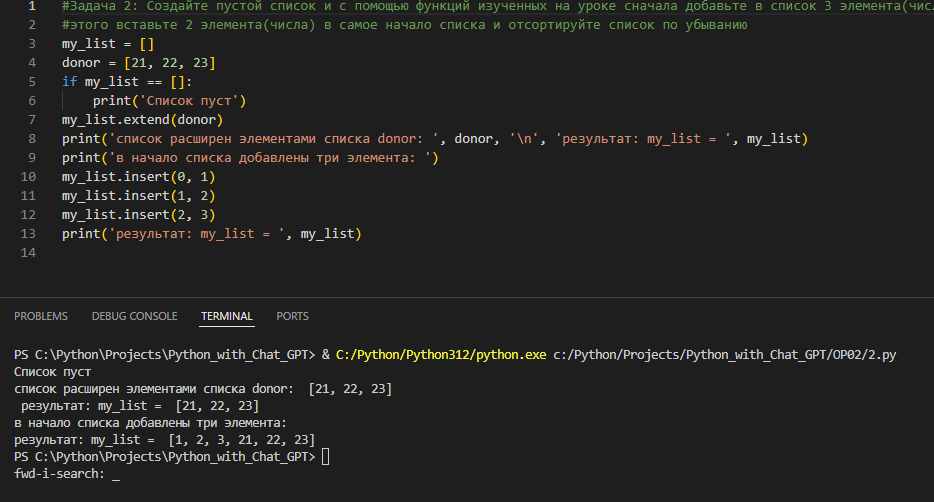
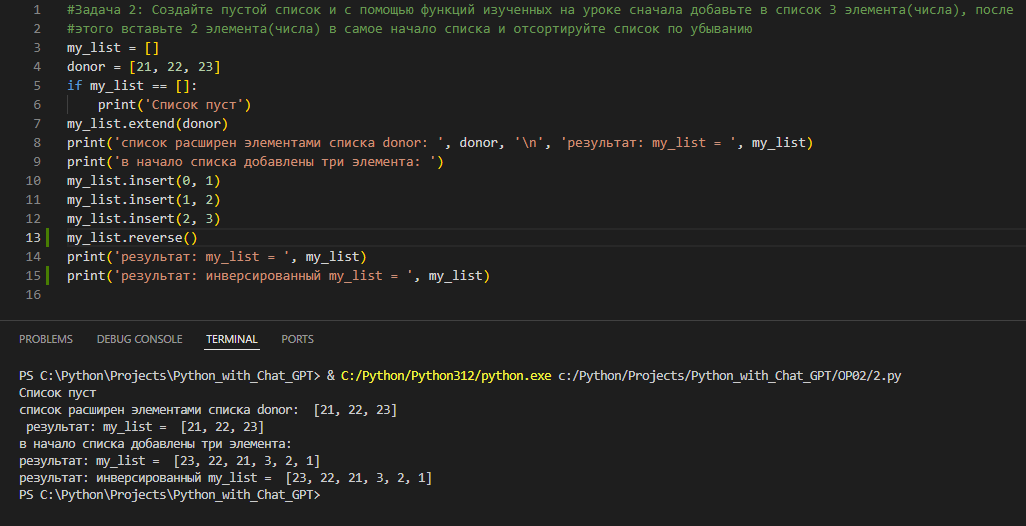
Changes

diff --git a/OP02/5.py b/OP02/5.py
@@ -1,0 +1,7 @@
+#Задача 5: Наполнение списка
+#Напишите программу которая будет с помощью цикла for 10 раз запрашивать у пользователя ввод символов/цифр и добавлять эти символы/цифры в список
+l = []
+for i in range(0, 10):
+    n = input('введите элемент, списка: ')
+    l.append(n)
+print ('новый список: ', l)

diff --git a/OP02/2.py b/OP02/2.py
@@ -10,4 +10,6 @@ print('в начало списка добавлены три элемента: 
 my_list.insert(0, 1)
 my_list.insert(1, 2)
 my_list.insert(2, 3)
+my_list.reverse()
 print('результат: my_list = ', my_list)
+print('результат: инверсированный my_list = ', my_list)
